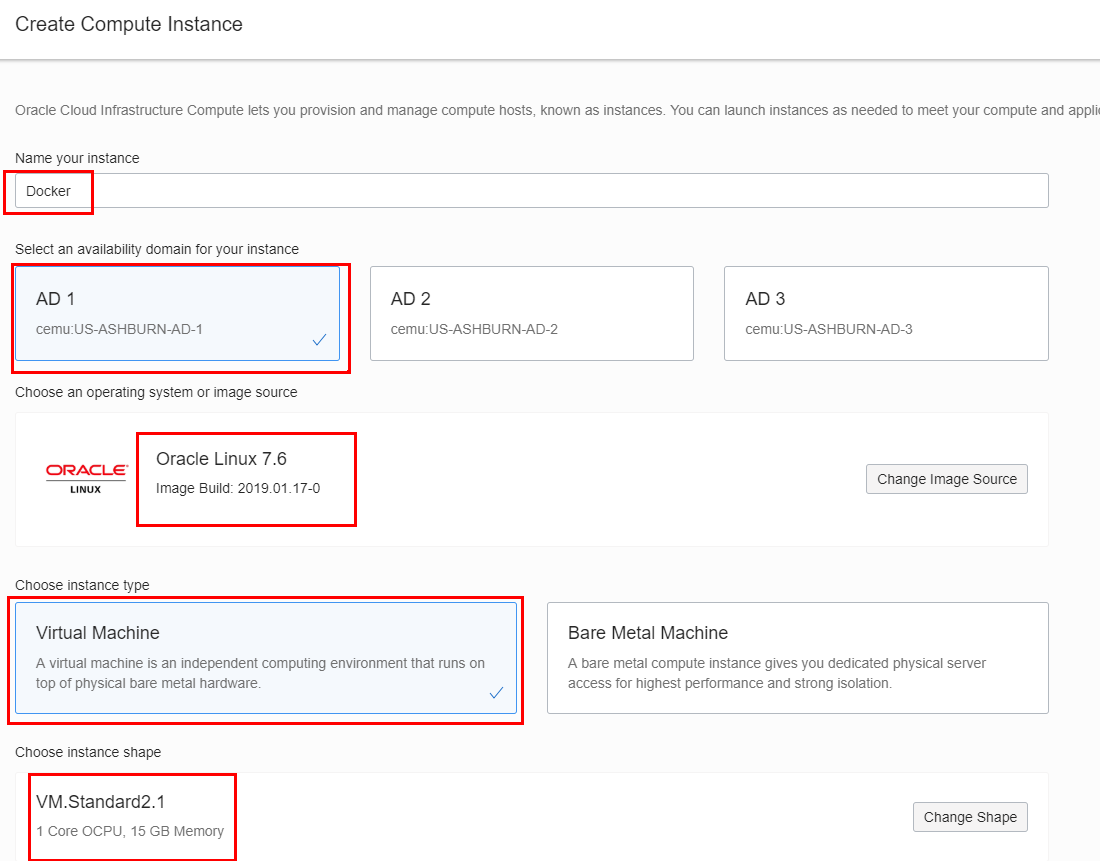
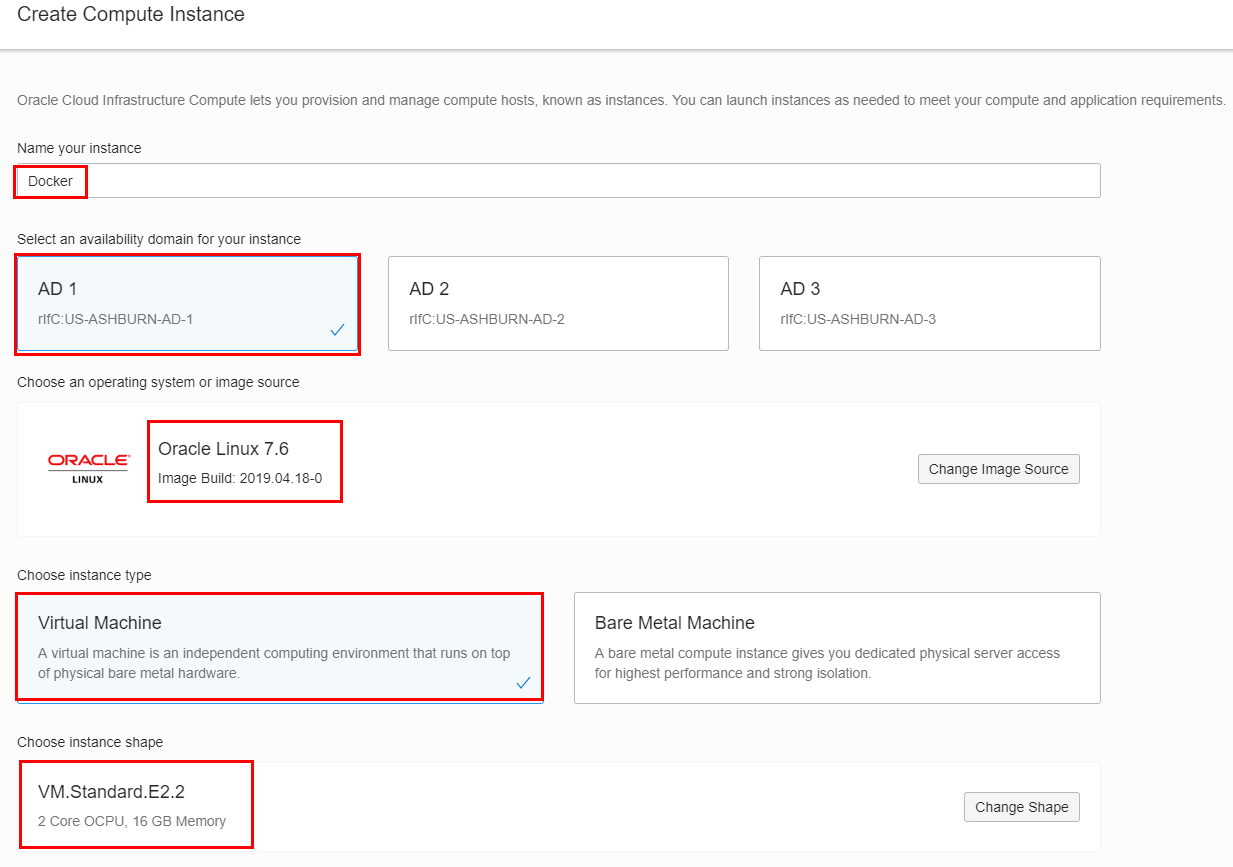
Updates to Lab 200

diff --git a/workshops/monolithic-to-microservice/lab-guides/LabGuide200.md b/workshops/monolithic-to-microservice/lab-guides/LabGuide200.md
@@ -166,10 +166,18 @@ Before we create the Compute instance that will contain Docker and application d
   Boot Volume: Oracle-Provided OS Image
   Image Operating System: Oracle Linux 7.6 (Default)
   Shape Type: Virtual Machine (Default)
-  Shape: VM.Standard2.1 (Default)
+  Shape: VM.Standard.E2.2
   ```
 
-- After entering the _Docker_ instance name.
+- For the Instance Shape click on the **Change Shape** button. 
+
+  ![](images/200/27.1.1.PNG)
+
+- Select the shape **VM.Standard.E2.2** and click **Select Shape**.
+
+  ![](images/200/27.1.2.PNG)
+
+- After entering the _Docker_ instance details your screen should look like:
 
    ![](images/200/27-2.PNG)
 

diff --git a/workshops/monolithic-to-microservice/lab-guides/LabGuide200Virtual.md b/workshops/monolithic-to-microservice/lab-guides/LabGuide200Virtual.md
@@ -166,10 +166,18 @@ Before we create the Compute instance that will contain Docker and application d
   Boot Volume: Oracle-Provided OS Image
   Image Operating System: Oracle Linux 7.6 (Default)
   Shape Type: Virtual Machine (Default)
-  Shape: VM.Standard2.1 (Default)
+  Shape: VM.Standard.E2.2
   ```
 
-- After entering the _Docker_ instance name.
+- For the Instance Shape click on the **Change Shape** button. 
+
+  ![](images/200/27.1.1.PNG)
+
+- Select the shape **VM.Standard.E2.2** and click **Select Shape**.
+
+  ![](images/200/27.1.2.PNG)
+
+- After entering the _Docker_ instance details your screen should look like:
 
    ![](images/200/27-2.PNG)
 
